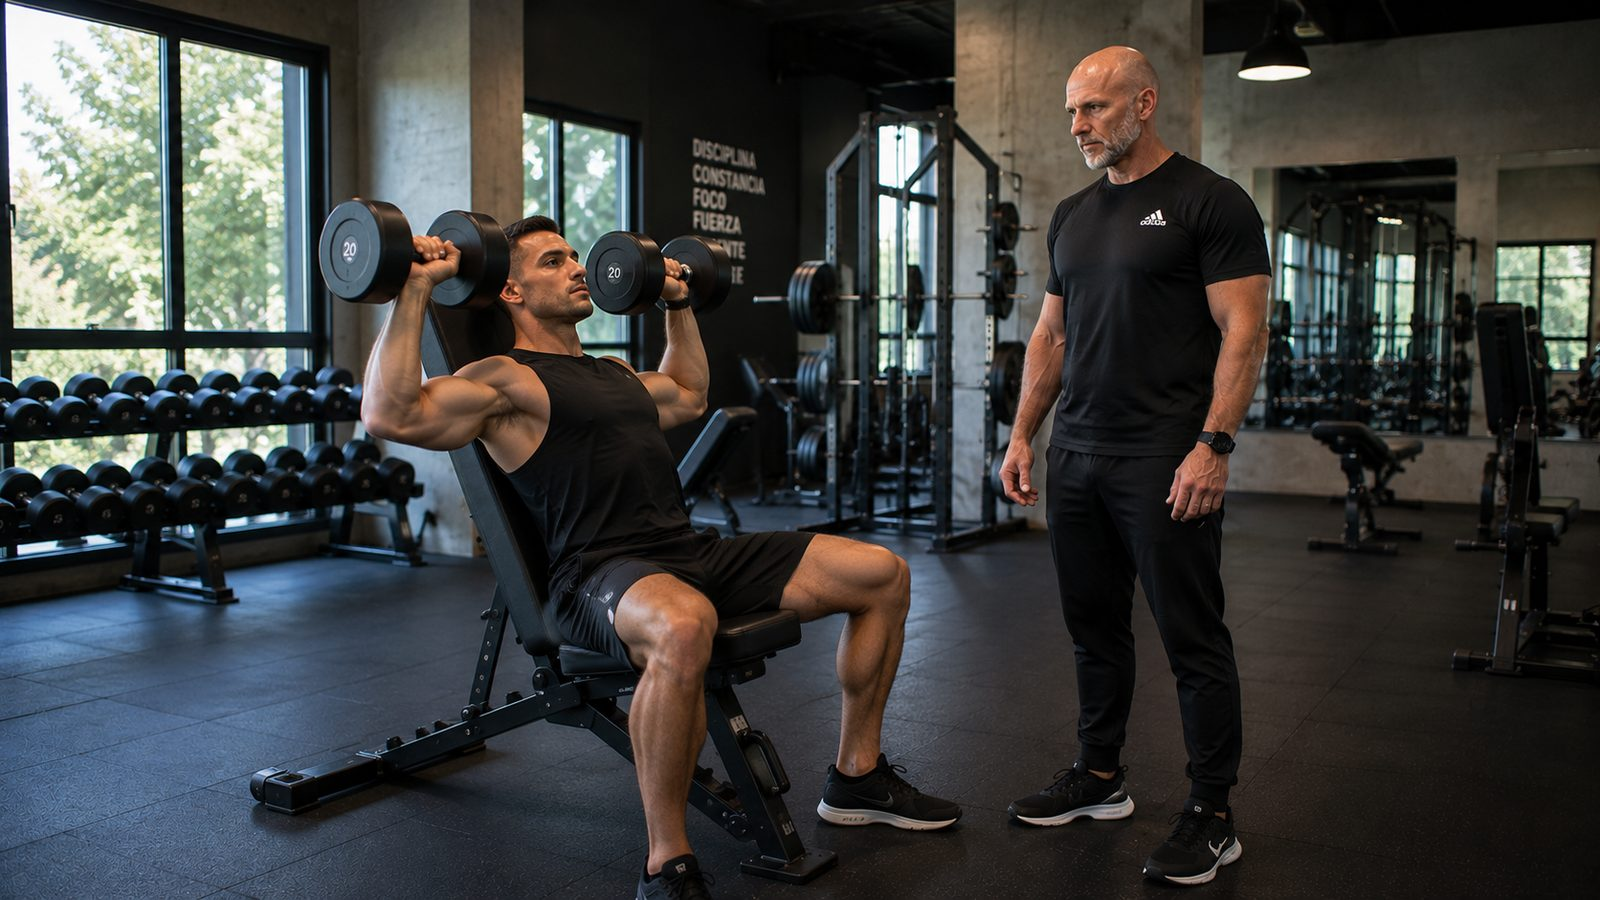
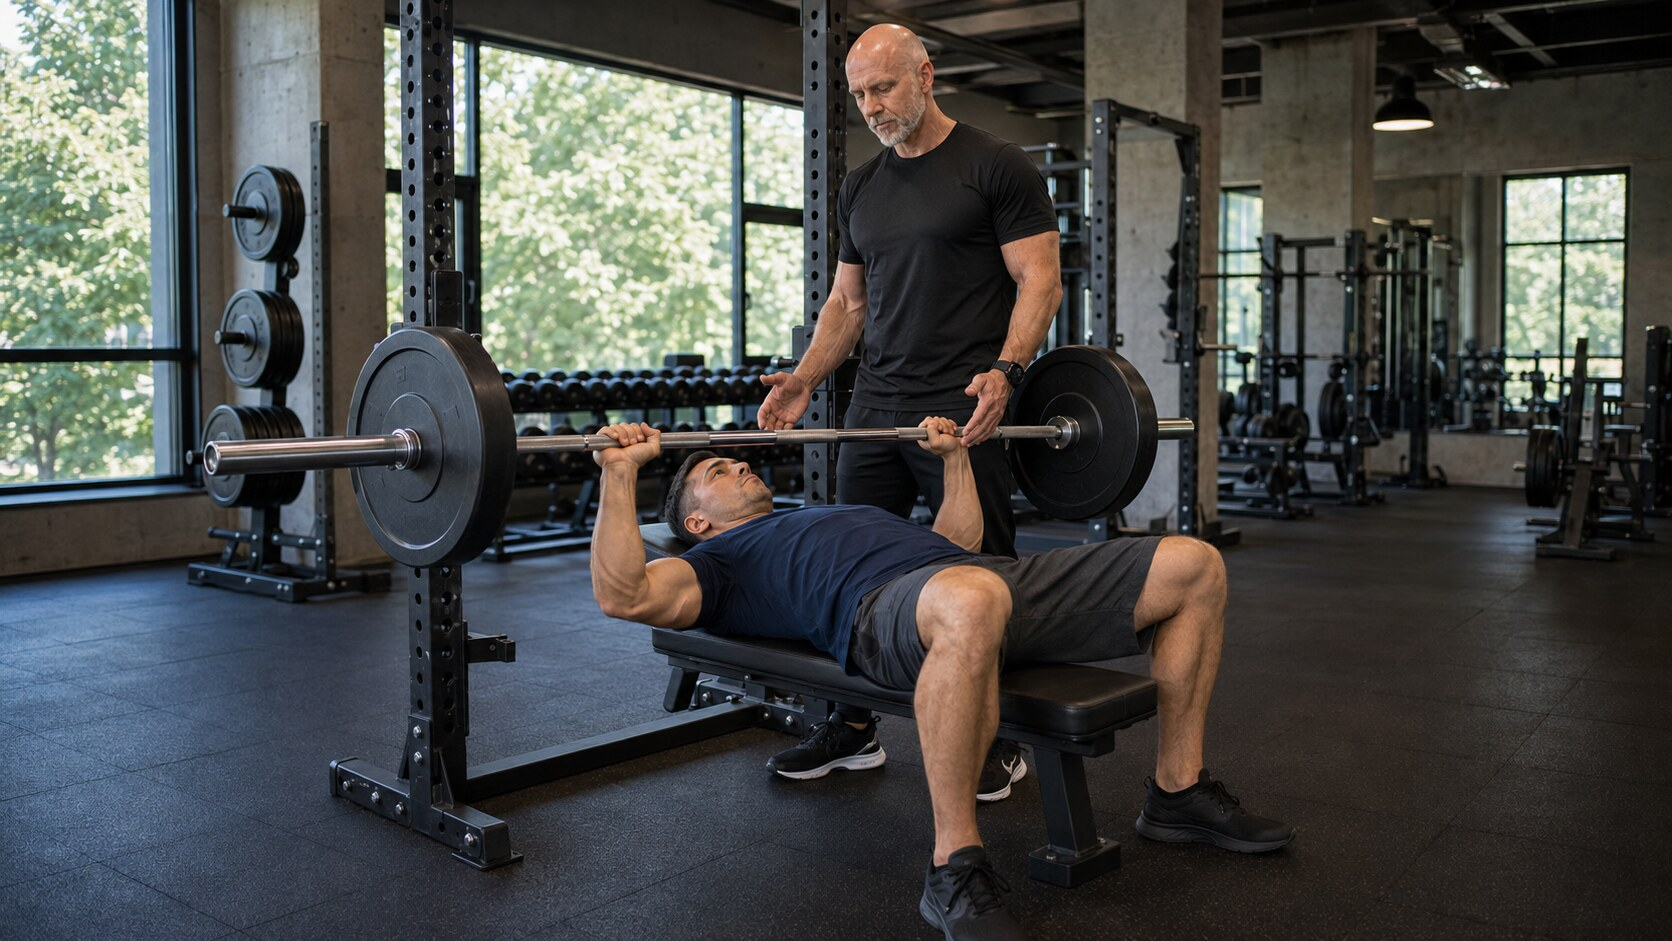
IA Planner: dos entrenadores (John Meadows + Bret Contreras) + formulario perfil atleta + plan semanal

diff --git a/alumno-sw.js b/alumno-sw.js
@@ -2,9 +2,9 @@
 // Service Worker — Portal del Alumno SOCC
 // Estrategia: network-first para HTML (siempre busca la versión nueva),
 // cache-first para estáticos (íconos). Nunca intercepta Firebase/APIs.
-// deploy.bat reemplaza 20260805133305 por el timestamp del build.
+// deploy.bat reemplaza 20260805134630 por el timestamp del build.
 // ═══════════════════════════════════════════════════════════════════════════
-const CACHE = 'alumno-socc-20260805133305';
+const CACHE = 'alumno-socc-20260805134630';
 
 self.addEventListener('install', e => {
   self.skipWaiting();

diff --git a/alumno.html b/alumno.html
@@ -799,8 +799,8 @@ let _liveData = {};  // { uid: {apro:[],efec:[],drop:[]} } — series modificada
 let _alumnoId='', _pesoEdits={};
 
 // ── AUTO-UPDATE: detecta versión nueva publicada y recarga sola ──────────────
-// deploy.bat reemplaza 20260805133305 por un timestamp en cada deploy
-const _APP_VERSION = '20260805133305';
+// deploy.bat reemplaza 20260805134630 por un timestamp en cada deploy
+const _APP_VERSION = '20260805134630';
 async function _checkVersion() {
   if (!location.protocol.startsWith('http')) return;
   if (sessionStorage.getItem('SOCC_VER_RELOADED')) return;
